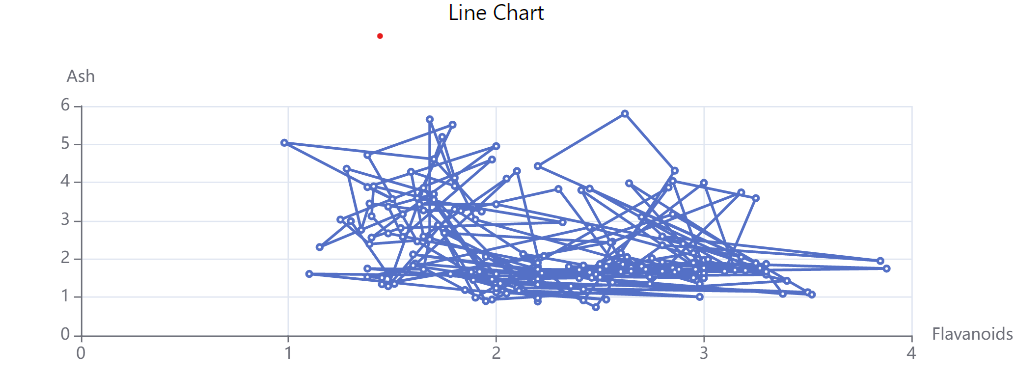
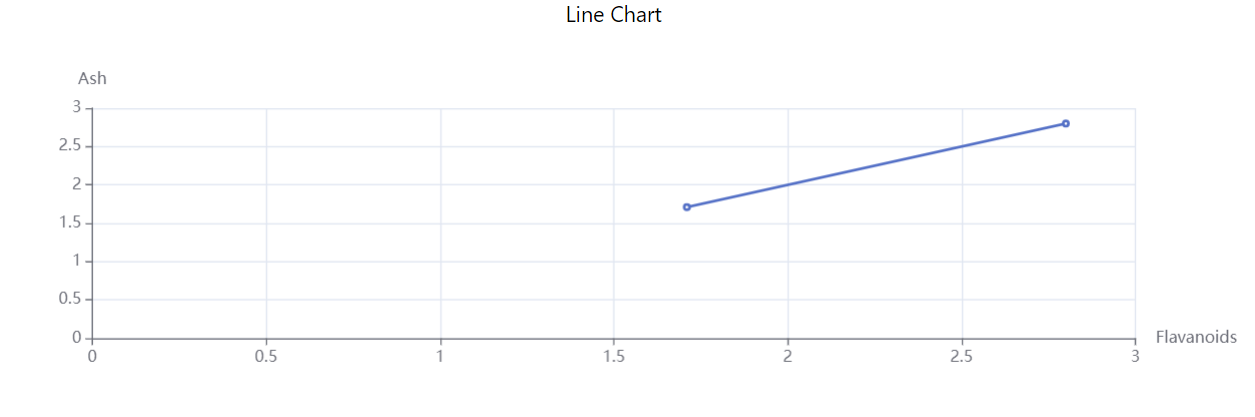
fixes

diff --git a/src/App.tsx b/src/App.tsx
@@ -15,7 +15,6 @@ useEffect(()=>{
 useEffect(()=>{
 if(chartsData){
   const alcoholCategories = chartsData.map((item) => item.Alcohol);
-  const magnesiumValues = chartsData.map((item) => item.Magnesium);
   const minMagnesiumValues: number[] = [];
   alcoholCategories.forEach((category) => {
     const categoryValues = chartsData.filter((item) => item.Alcohol === category).map((item) => item.Magnesium);
@@ -37,7 +36,7 @@ if(chartsData){
     },
     series: [{
       type: 'line',
-      data: chartsData.map((item) => [item.Flavanoids, item.Ash])
+      data: chartsData.map((item) => [item.Flavanoids, item.Ash])[0]
     }]
   };
   setLineChartOptions(lineChartOptions);
